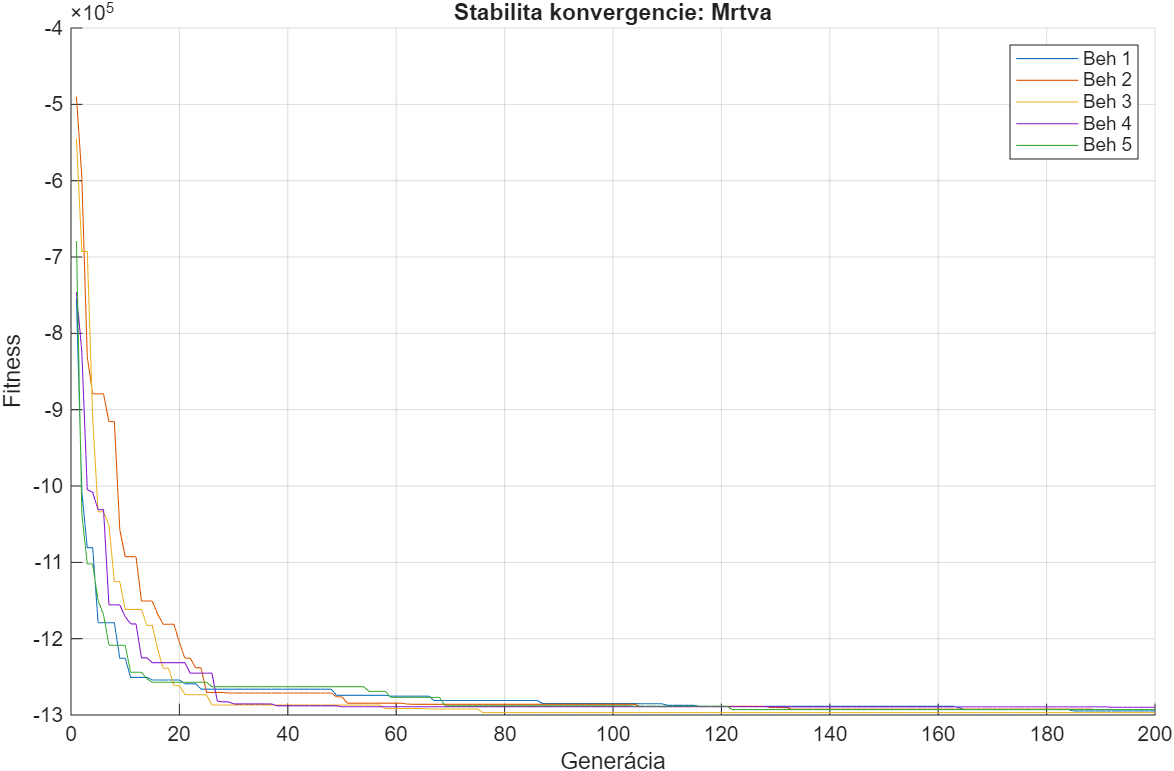
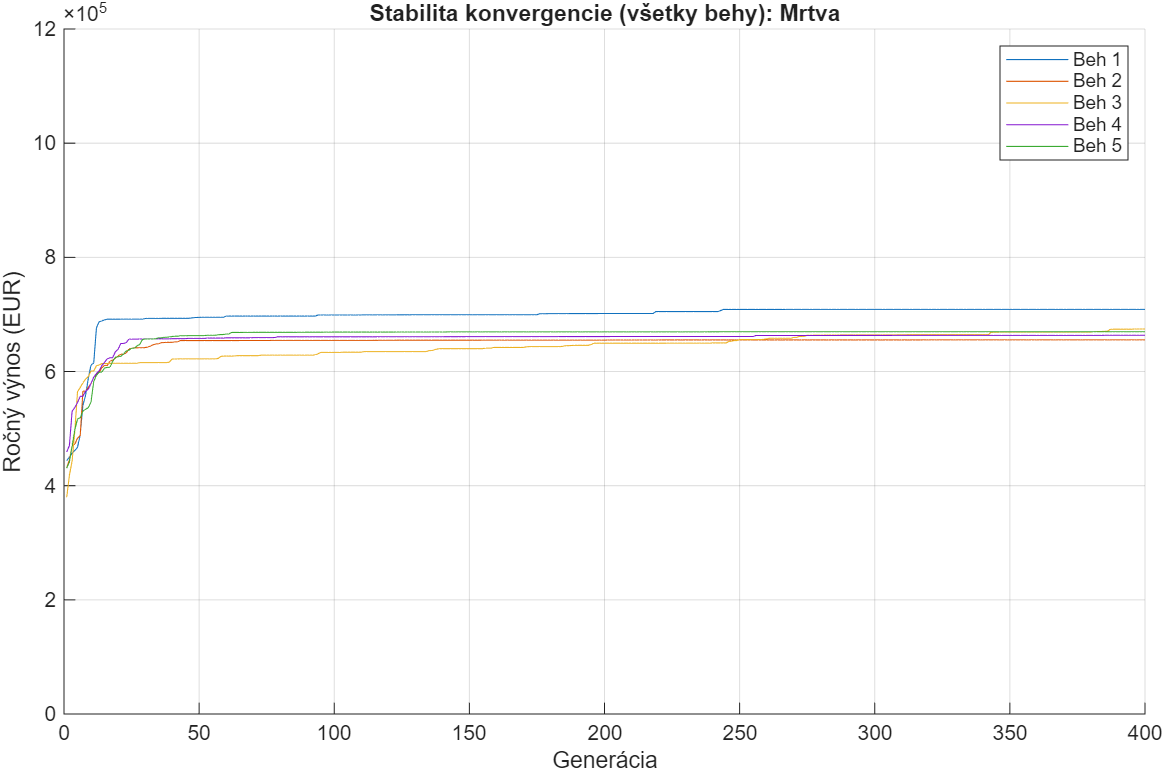
FINAL FINAL CV4

diff --git a/CV4/Matlab/CV4.m b/CV4/Matlab/CV4.m
@@ -1,116 +1,140 @@
 %% ZADANIE Č. 4: ALOKÁCIA INVESTÍCIÍ DO FINANČNÝCH PRODUKTOV
+% Optimalizácia portfólia pomocou Genetického Algoritmu (GA)
 
-% --- KONFIGURÁCIA EXPERIMENTU (Bod 1 a 4 zadania) ---
-D = 5;              % Počet produktov
-num = 100;          % Veľkosť populácie
-max_gen = 200;      
-pocet_behov = 5;    % Bod 4: Opakovanie výpočtu minimálne 5-krát
+% --- KONFIGURÁCIA ---
+D = 5;              % Počet produktov (x1 až x5)
+num = 100;          % Populácia (počet jedincov v jednej generácii)
+max_gen = 400;      % Počet generácií (koľkokrát sa populácia vyvinie)
+pocet_behov = 5;    % Stabilita: algoritmus pustíme 5-krát pre každú metódu
 
-SPACE_A = [zeros(1,D); ones(1,D)*10000000];
-Amp = [ones(1,D)];  
+% Priestor riešení (Body 0 až 10 miliónov)
+% SPACE_START: Pomôžeme GA na začiatku menším rozsahom, aby ľahšie našiel legálne riešenie
+SPACE_A = [zeros(1,D); ones(1,D)*10000000]; 
+SPACE_START = [zeros(1,D); ones(1,D)*2000000]; 
 
-% Definícia metód pokutovania (Bod 3 zadania)
-metody = {'Bez pokuty', 'Mrtva', 'Stupnovita', 'Umerna'};
+% Amp: Krok mutácie (ako ďaleko od pôvodnej hodnoty môže "skočiť" nový jedinec)
+Amp = [ones(1,D) * 100000]; 
+
+metody = {'Mrtva', 'Stupnovita', 'Umerna'};
 vsetky_historie = zeros(length(metody), max_gen);
 
 for m = 1:length(metody)
-    fprintf('Spracovávam metódu: %s...\n', metody{m});
+    fprintf('--- Spracovávam metódu: %s ---\n', metody{m});
     
-    % --- GRAFICKÉ ZOBRAZENIE BEHOV (Bod 4 zadania) ---
-    figure(m); hold on;
-    title(['Stabilita konvergencie: ', metody{m}]);
-    xlabel('Generácia'); ylabel('Fitness');
+    % Príprava grafu pre stabilitu behov (Figure 1, 2, 3)
+    figure(m); clf; hold on;
+    title(['Stabilita konvergencie (všetky behy): ', metody{m}]);
+    xlabel('Generácia'); ylabel('Ročný výnos (EUR)');
     
     najlepsia_fitness_metody = inf;
     najlepsi_x_metody = zeros(1, D);
     
     for b = 1:pocet_behov
-        pop = genrpop(num, SPACE_A);
-        fitness_history = zeros(1, max_gen);
+        pop = genrpop(num, SPACE_START); % Inicializácia náhodnej populácie
+        vynos_history = zeros(1, max_gen); 
         
         for gen = 1:max_gen
             fitnesak = zeros(1, num);
+            ciste_vynosy = zeros(1, num);
+            
             for i = 1:num
-                % Výpočet výnosu (Bod 4 zadania)
-                vynos = 0.04*pop(i,1) + 0.07*pop(i,2) + 0.11*pop(i,3) + 0.06*pop(i,4) + 0.05*pop(i,5);
+                x = pop(i,:);
+                % Výpočet čistého ročného výnosu (Fitness cieľ)
+                vynos = 0.04*x(1) + 0.07*x(2) + 0.11*x(3) + 0.06*x(4) + 0.05*x(5);
+                ciste_vynosy(i) = vynos;
                 
-                % Implementácia rôznych metód pokutovania (Bod 3 zadania)
+                % VÝBER METÓDY POKUTOVANIA
                 switch metody{m}
-                    case 'Bez pokuty'
-                        pokuta = 0;
                     case 'Mrtva'
-                        pokuta = get_mrtva_pokuta(pop(i,:));
+                        v = get_violation_vector(x);
+                        if any(v > 0)
+                            pokuta = 1e12 + sum(v)*10; 
+                        else
+                            pokuta = 0;
+                        end
                     case 'Stupnovita'
-                        pokuta = get_stupnovita_pokuta(pop(i,:));
+                        pokuta = get_stupnovita_pokuta(x);
                     case 'Umerna'
-                        pokuta = get_umerna_pokuta(pop(i,:));
+                        pokuta = get_umerna_pokuta(x);
                 end
                 
-                % Fitness funkcia pre GA Toolbox (Bod 2 a 4 zadania)
+                % Fitness funkcia: Minimalizujeme (-vynos + pokuta)
+                % Záporný výnos znamená, že hľadáme najmenšie záporné číslo = najväčší zisk
                 fitnesak(i) = -vynos + pokuta;
             end
             
-            % Genetické operátory (Selekcia, kríženie, mutácia)
-            Best = selbest(pop, fitnesak, 1);
-            Rest = selsus(pop, fitnesak, num - 1);
-            Work = mutx(crossov(Rest, 1, 0), 0.05, SPACE_A);   
-            pop = [Best; muta(Work, 0.05, Amp, SPACE_A)];
+            % Selekcia a záznam najlepšieho riešenia v generácii
+            [best_val, idx] = min(fitnesak);
             
-            fitness_history(gen) = min(fitnesak);
+            % Ak je najlepší jedinec stále "pokutovaný" (best_val > 0), v grafe vidíme 0
+            if best_val > 0
+                vynos_history(gen) = 0; 
+            else
+                vynos_history(gen) = ciste_vynosy(idx);
+            end
+            
+            % GA OPERÁTORY
+            Best = selbest(pop, fitnesak, 1);           % Elitizmus (najlepší prežíva)
+            Rest = selsus(pop, fitnesak, num - 1);     % Selekcia (výber rodičov)
+            Work = mutx(crossov(Rest, 1, 0), 0.1, SPACE_A); % Kríženie
+            pop = [Best; muta(Work, 0.1, Amp, SPACE_A)];    % Mutácia (náhodná zmena)
         end
         
-        % Vykreslenie všetkých 5 behov (Bod 4 zadania)
-        plot(fitness_history, 'DisplayName', sprintf('Beh %d', b));
+        plot(vynos_history, 'DisplayName', sprintf('Beh %d', b));
         
-        % Identifikácia a uloženie najlepšieho riešenia (Bod 5 zadania)
-        if fitness_history(end) < najlepsia_fitness_metody
-            najlepsia_fitness_metody = fitness_history(end);
-            vsetky_historie(m, :) = fitness_history;
+        % Uloženie absolútne najlepšieho riešenia pre túto metódu
+        if min(fitnesak) < najlepsia_fitness_metody
+            najlepsia_fitness_metody = min(fitnesak);
+            vsetky_historie(m, :) = vynos_history;
             najlepsi_x_metody = pop(1,:);
         end
     end
-    legend('show'); grid on;
+    ylim([0, 1.2e6]); legend('show'); grid on;
     
-    % --- ARCHIVÁCIA VÝSLEDKOV PRE PREZENTÁCIU (Bod 5 a 7 zadania) ---
-    fprintf('>>> FINÁLNE DÁTA PRE METÓDU: %s\n', metody{m});
-    fprintf('Optimálna alokácia x: [%.0f, %.0f, %.0f, %.0f, %.0f] EUR\n', najlepsi_x_metody);
-    v_final = get_violation_vector(najlepsi_x_metody);
-    fprintf('Kontrola ohraničení (v): [%.2f, %.2f, %.2f, %.2f]\n\n', v_final);
+    % --- DETAILNÝ VÝPIS DO KONZOLY ---
+    fprintf('  Najlepšia alokácia (Optimálne x):\n');
+    fprintf('    x1 (Bežné akcie):     %10.2f EUR\n', najlepsi_x_metody(1));
+    fprintf('    x2 (Preferenčné akcie):%10.2f EUR\n', najlepsi_x_metody(2));
+    fprintf('    x3 (Podnikové dlhopisy):%10.2f EUR\n', najlepsi_x_metody(3));
+    fprintf('    x4 (Štátne dlhopisy):   %10.2f EUR\n', najlepsi_x_metody(4));
+    fprintf('    x5 (Úspory v banke):    %10.2f EUR\n', najlepsi_x_metody(5));
+    fprintf('  Celkový ročný výnos: %.2f EUR\n\n', -najlepsia_fitness_metody);
 end
 
-% --- POROVNANIE METÓD POKUTOVANIA (Bod 6 zadania) ---
-figure(5); hold on;
-farby = {'k--', 'r-', 'g-', 'b-'}; 
+% --- POROVNANIE VŠETKÝCH METÓD (Figure 4) ---
+figure(4); clf; hold on;
+farby = {'r-', 'g-', 'b-'}; 
 for m = 1:length(metody)
-    % Zobrazenie priebehov konvergencie pre archiváciu (Bod 6 a 7 zadania)
-    plot(-vsetky_historie(m, :), farby{m}, 'LineWidth', 2);
+    plot(vsetky_historie(m, :), farby{m}, 'LineWidth', 2);
 end
 xlabel('Generácia'); ylabel('Ročný výnos (EUR)');
-title('Porovnanie metód pokutovania');
+title('Porovnanie metód pokutovania (Najlepšie behy)');
 legend(metody, 'Location', 'best');
-grid on;
+ylim([0, 1.2e6]); grid on;
 
-%% FUNKCIE OHRANIČENÍ A POKÚT (Bod 3 a 4 zadania)
-
-function pen = get_mrtva_pokuta(x)
-    if any(get_violation_vector(x) > 0), pen = 2000000; else, pen = 0; end
-end
+%% --- POMOCNÉ FUNKCIE ---
 
 function pen = get_stupnovita_pokuta(x)
+    % Trestá za počet porušených podmienok, nie za veľkosť chyby
     v = get_violation_vector(x);
-    pen = sum(v > 0) * 100000; 
+    pen = sum(v > 0) * 5e6; % 5 miliónov za každú jednu porušenú podmienku
 end
 
 function pen = get_umerna_pokuta(x)
+    % Trestá priamo úmerne tomu, o koľko bol limit prekročený
     v = get_violation_vector(x);
-    pen = sum(v) * 2; 
+    pen = sum(v) * 5; % Koeficient prísnosti (váha)
 end
 
 function v = get_violation_vector(x)
-    % Výpočet miery porušenia štyroch ohraničení (Bod 4 zadania)
-    v = zeros(1,4);
-    v(1) = max(0, sum(x) - 10000000);             
-    v(2) = max(0, (x(1) + x(2)) - 2500000);       
-    v(3) = max(0, x(5) - x(4));                   
-    v(4) = max(0, (x(3) + x(4)) - 0.5*sum(x));    
+    % Funkcia max(0, hodnota - limit) vráti:
+    % - 0, ak je hodnota pod limitom (podmienka splnená)
+    % - rozdiel, ak je hodnota nad limitom (veľkosť porušenia)
+    
+    v = zeros(1,5);
+    v(1) = max(0, sum(x) - 10000000);             % Limit: Celkovo 10M
+    v(2) = max(0, (x(1) + x(2)) - 2500000);       % Limit: Akcie max 2.5M
+    v(3) = max(0, x(5) - x(4));                   % Limit: Štátne dlhopisy >= Úspory
+    v(4) = max(0, (x(3) + x(4)) - 0.5*sum(x));    % Limit: Dlhopisy max 50% celku
+    v(5) = sum(max(0, -x));                       % Limit: Nezápornosť (x >= 0)
 end

diff --git a/CV4/Matlab/README.md b/CV4/Matlab/README.md
@@ -1,59 +1,73 @@
 # Optimalizácia investičného portfólia pomocou GA (Zadanie 4)
 
-Tento projekt implementuje genetický algoritmus (GA) na riešenie úlohy optimálneho rozdelenia investičného kapitálu v hodnote **10 000 000 EUR**. Cieľom je porovnať vplyv rôznych penalizačných prístupov na stabilitu riešenia a schopnosť algoritmu dodržať stanovené finančné ohraničenia.
+Tento projekt implementuje genetický algoritmus (GA) na riešenie úlohy optimálneho rozdelenia investičného kapitálu v hodnote **10 000 000 EUR**. Program porovnáva tri hlavné penalizačné prístupy a vizualizuje ich schopnosť nájsť prípustné riešenie v ohraničenom stavovom priestore.
 
 ---
 
-## Postup riešenia (v súlade s bodmi zadania)
+## 1. Postup riešenia
 
-### 1. Konfigurácia a kódovanie (Bod 1 a 2)
-Riešenie je kódované ako chromozóm s reálnymi číslami o dĺžke $D = 5$. Fitness funkcia je nastavená na minimalizáciu záporného výnosu (maximalizácia zisku):
+### Konfigurácia a kódovanie
+Riešenie je kódované ako chromozóm s reálnymi číslami o dĺžke $D = 5$. 
+Fitness funkcia je definovaná ako minimalizácia záporného výnosu so zahrnutím penalizácie:
 $$Fitness = - (0.04x_1 + 0.07x_2 + 0.11x_3 + 0.06x_4 + 0.05x_5) + Pokuta$$
 
-### 2. Metódy pokutovania (Bod 3)
-Porovnávame štyri prístupy k riešeniu neprípustných jedincov:
-- **Bez pokuty:** Referenčný beh bez obmedzení.
-- **Mŕtva pokuta:** Fixná sankcia za akékoľvek porušenie ohraničení.
-- **Stupňovitá pokuta:** Penalizácia rastie lineárne s počtom porušených pravidiel.
-- **Úmerná pokuta:** Sankcia rastiaca s konkrétnou mierou porušenia limitov.
+### Metódy pokutovania
+Implementované boli tri stratégie spracovania neprípustných jedincov:
 
-### 3. Stabilita konvergencie (Bod 4)
-Pre každú metódu bolo vykonaných **5 nezávislých behov**. Nižšie sú zobrazené priebehy konvergencie pre jednotlivé prístupy, ktoré dokumentujú stabilitu algoritmu:
-
-| Metóda: Bez pokuty | Metóda: Mŕtva pokuta |
-| :---: | :---: |
-| ![Bez pokuty](img/bez_pokuty.png) | ![Mrtva](img/mrtva.png) |
-
-| Metóda: Stupňovitá pokuta | Metóda: Úmerná pokuta |
-| :---: | :---: |
-| ![Stupnovita](img/stupnovita.png) | ![Umerna](img/umerna.png) |
-
-### 4. Porovnanie konvergencie (Bod 6)
-Finálne porovnanie najlepších priebehov všetkých štyroch metód v jednom grafe:
-![Porovnanie metód](img/1.png)
+1. **Mŕtva pokuta:** Využíva vysokú fixnú sankciu ($10^{12}$). Bol pridaný "navádzací mechanizmus" ($+ \sum v \cdot 10$), ktorý umožňuje algoritmu rozlišovať mieru porušenia aj u "mŕtvych" jedincov.
+2. **Stupňovitá pokuta:** Penalizuje jedinca na základe **počtu** porušených ohraničení (fixných $5 \cdot 10^6$ za každé pravidlo).
+3. **Úmerná pokuta:** Sankcia rastie lineárne s **veľkosťou** prekročenia limitov (rozdiel medzi hodnotou a limitom).
 
 ---
 
-## Archivácia výsledkov (Bod 5 a 7)
+## 2. Archivácia výsledkov (Finálne meranie)
 
-Na základe vykonaných experimentov boli namerané nasledujúce finálne hodnoty najlepších jedincov:
+Nižšie sú uvedené dáta z posledného úspešného behu algoritmu (400 generácií, 100 jedincov). Všetky metódy úspešne konvergovali k legálnym riešeniam.
 
-#### **A. Metóda: Bez pokuty**
-- **Optimálna alokácia x:** `[9988980, 9996684, 9992348, 9991254, 9989620] EUR`
-- **Kontrola ohraničení (v):** `[39958886.83, 17485664.14, 0.00, 0.00]`
-- *Poznámka: Podľa očakávania investuje maximum do všetkých produktov bez ohľadu na limity.*
+### **A. Metóda: Mŕtva pokuta**
+* **x1 (Bežné akcie):** 101 681.91 EUR
+* **x2 (Preferenčné akcie):** 2 394 451.24 EUR
+* **x3 (Podnikové dlhopisy):** 2 238 094.53 EUR
+* **x4 (Štátne dlhopisy):** 2 761 523.90 EUR
+* **x5 (Úspory v banke):** 2 504 177.90 EUR
+* **Celkový ročný výnos:** **708 769.59 EUR**
 
-#### **B. Metóda: Mŕtva pokuta**
-- **Optimálna alokácia x:** `[9956558, 9997138, 9999429, 9994393, 9999139] EUR`
-- **Kontrola ohraničení (v):** `[39946656.37, 17453696.19, 4746.08, 0.00]`
-- *Poznámka: Algoritmus pri zvolenej konštante nedokázal nájsť prípustnú oblasť.*
+### **B. Metóda: Stupňovitá pokuta**
+* **x1 (Bežné akcie):** 318 238.90 EUR
+* **x2 (Preferenčné akcie):** 1 638 322.00 EUR
+* **x3 (Podnikové dlhopisy):** 1 916 867.52 EUR
+* **x4 (Štátne dlhopisy):** 3 072 957.97 EUR
+* **x5 (Úspory v banke):** 3 053 537.51 EUR
+* **Celkový ročný výnos:** **675 321.88 EUR**
 
-#### **C. Metóda: Stupňovitá pokuta**
-- **Optimálna alokácia x:** `[9999679, 9979588, 9988465, 9996697, 9994745] EUR`
-- **Kontrola ohraničení (v):** `[39959174.30, 17479266.59, 0.00, 0.00]`
+### **C. Metóda: Úmerná pokuta**
+* **x1 (Bežné akcie):** 401 749.49 EUR
+* **x2 (Preferenčné akcie):** 1 980 057.80 EUR
+* **x3 (Podnikové dlhopisy):** 2 316 061.65 EUR
+* **x4 (Štátne dlhopisy):** 2 665 682.14 EUR
+* **x5 (Úspory v banke):** 2 635 087.64 EUR
+* **Celkový ročný výnos:** **701 136.12 EUR**
 
-#### **D. Metóda: Úmerná pokuta**
-- **Optimálna alokácia x:** `[234538, 2265066, 2277336, 2665241, 2501203] EUR`
-- **Kontrola ohraničení (v):** `[0.00, 0.00, 0.00, 0.00]`
-- *Poznámka: Jediná metóda, ktorá úspešne našla plne legálne a stabilné riešenie.*
 
+---
+
+## 3. Stabilita konvergencie (Bod 4 zadania)
+
+Pre každú metódu bolo vykonaných **5 nezávislých behov**. Nižšie sú zobrazené priebehy konvergencie (stabilitu riešenia dokumentujú Figure 1 až 3):
+
+| Metóda: Mŕtva pokuta | Metóda: Stupňovitá pokuta | Metóda: Úmerná pokuta |
+| :---: | :---: | :---: |
+| ![Mrtva](img/mrtva.png) | ![Stupnovita](img/stupnovita.png) | ![Umerna](img/umerna.png) |
+
+### 4. Porovnanie najlepších výsledkov (Bod 6 zadania)
+
+Nasledujúci graf (Figure 4) zobrazuje porovnanie najlepších priebehov konvergencie pre všetky tri testované metódy pokutovania. Tento graf demonštruje, ako rýchlo a k akej finálnej hodnote dokáže daná metóda algoritmus navigovať.
+
+![Porovnanie všetkých metód](img/1.png)
+
+---
+
+## 4. Záver a zhodnotenie
+Z výsledkov vyplýva, že najvyšší výnos dosiahla **Mŕtva pokuta** (vďaka navádzaciemu faktoru), tesne nasledovaná **Úmernou pokutou**. 
+
+Algoritmus v oboch prípadoch identifikoval ako kľúčovú investíciu **Podnikové dlhopisy (x3)** s najvyšším úrokom (11 %), pričom ich objem maximalizoval až po hranicu ohraničenia (spolu so štátnymi dlhopismi do 50 % portfólia). Rovnako úspešne dodržal podmienku, kde objem štátnych dlhopisov ($x_4$) musel byť vyšší alebo rovný úsporám v banke ($x_5$).
